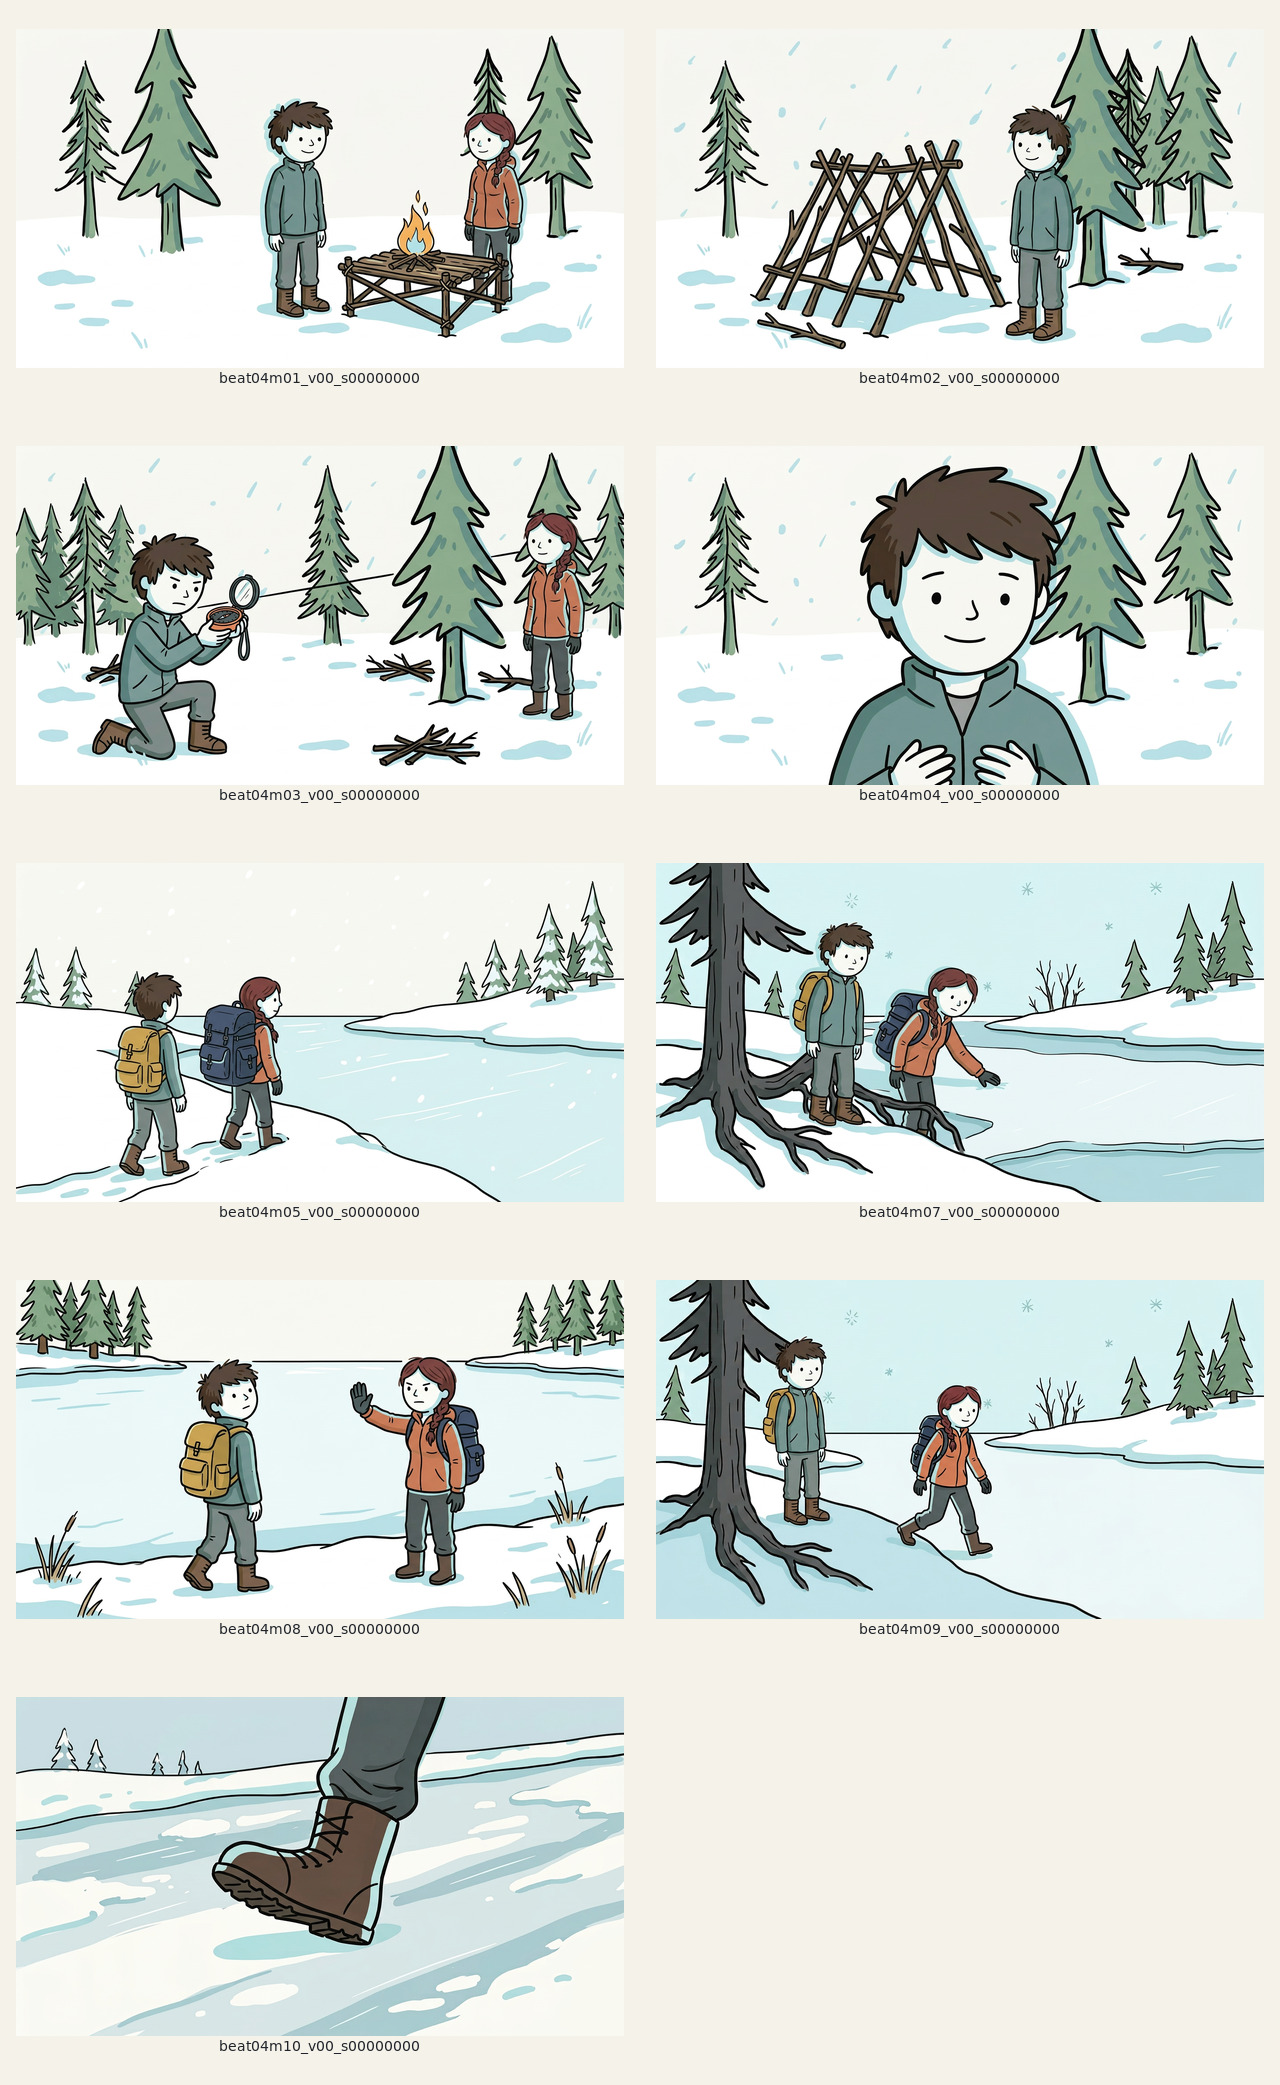
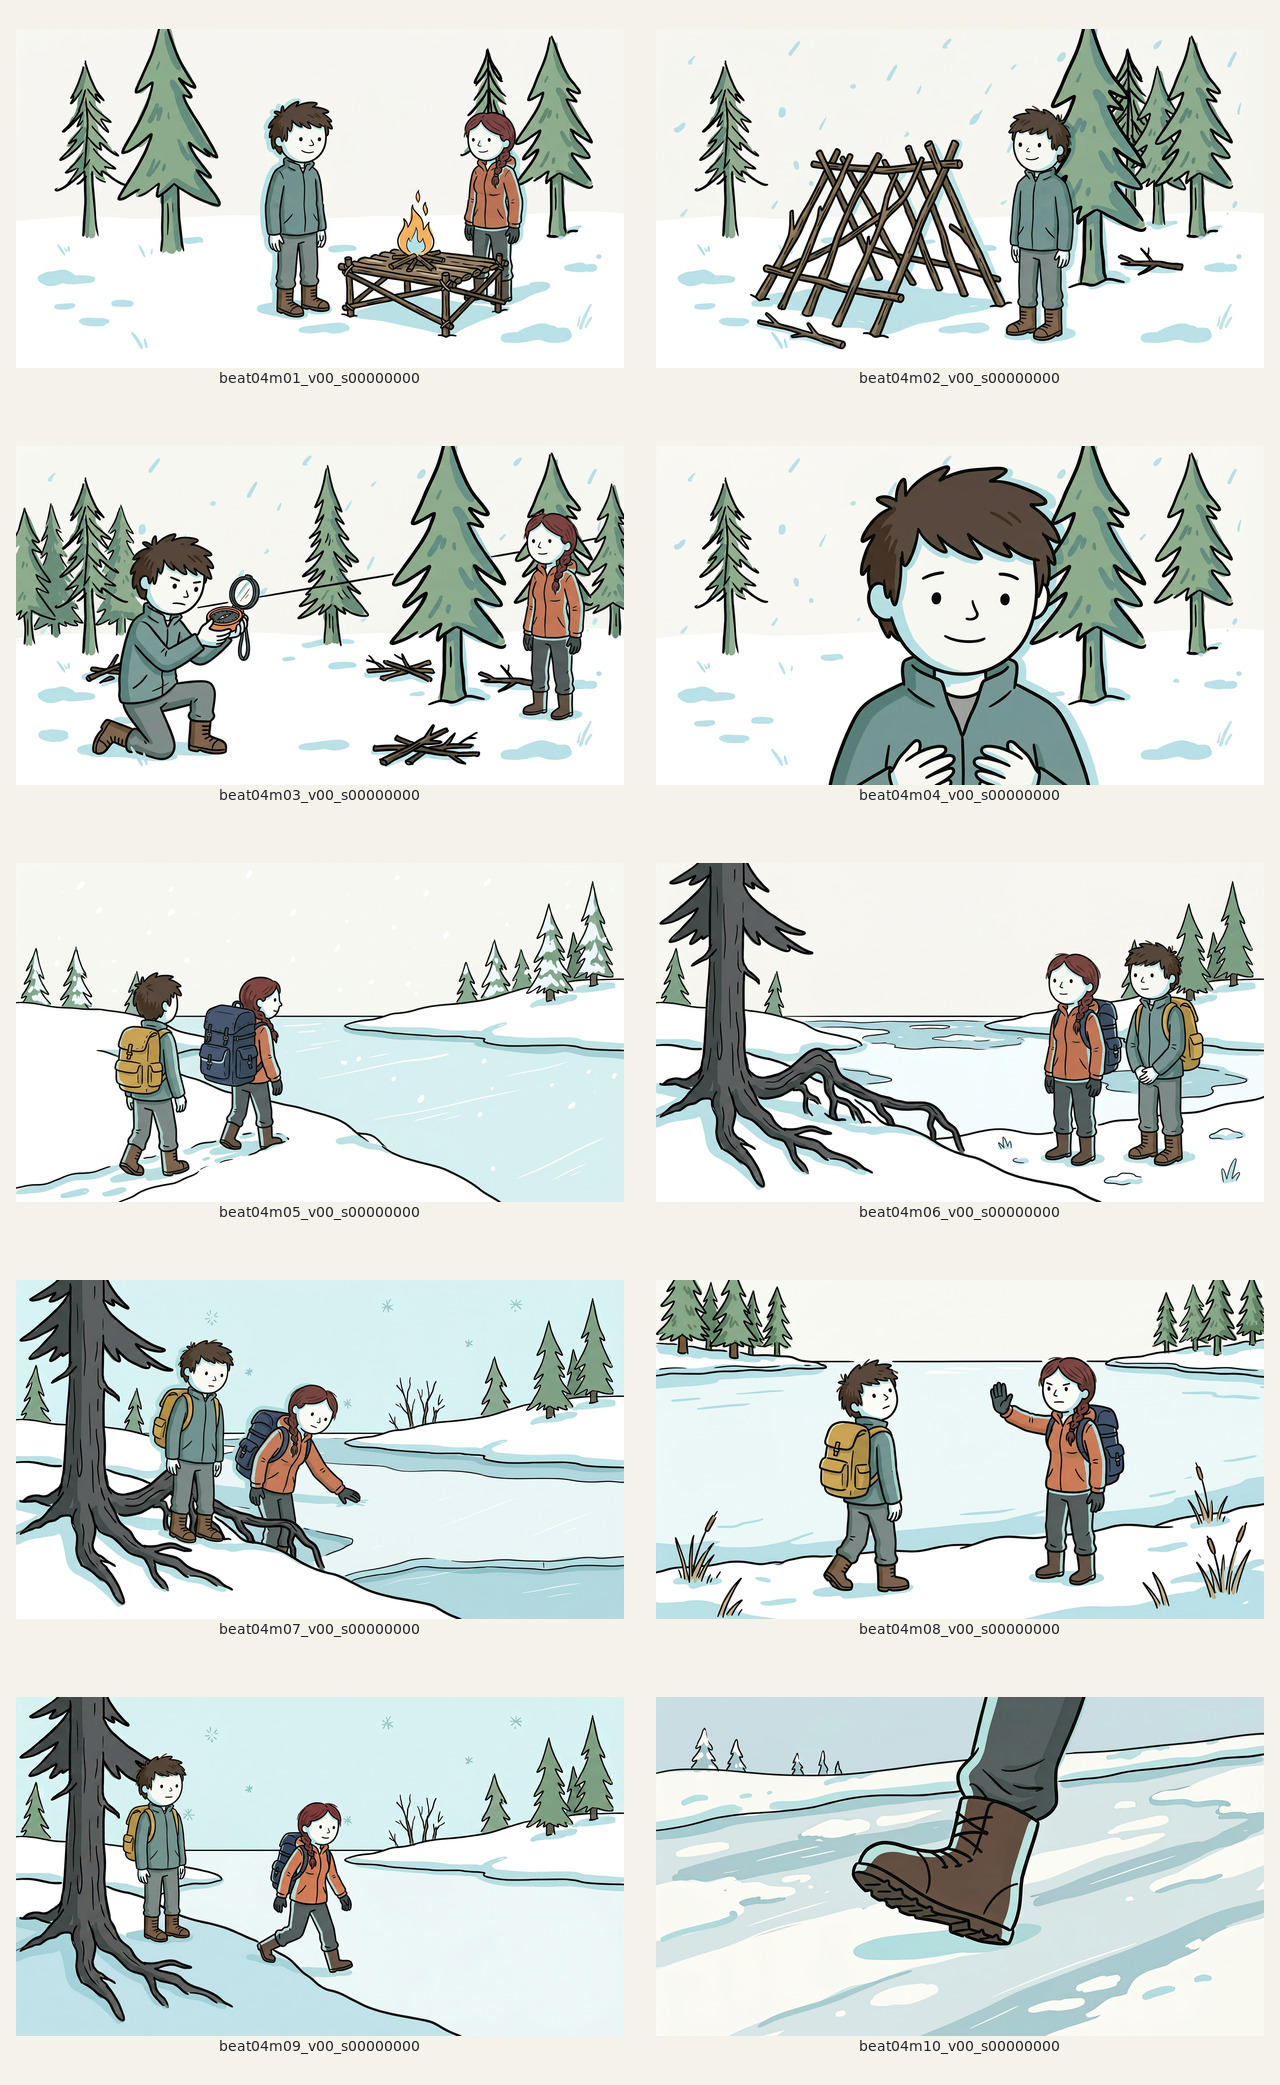
save the guide: complete initial crossing batch 4

Changed region(s): [[0.0, 0.4053, 1.0, 0.7794], [0.0, 0.8106, 1.0, 0.9976]]

diff --git a/examples/save_the_guide_part_01_video/FRAME_REVIEW.md b/examples/save_the_guide_part_01_video/FRAME_REVIEW.md
@@ -10,31 +10,29 @@ Frames are retained only after visual inspection. User section approval is expli
 
 **Total approved frames: 32/146.**
 
-## Batch 4 — progress and initial river crossing: FIRST PASS IN REVIEW
+## Batch 4 — progress and initial river crossing: COMPLETE, AWAITING USER APPROVAL
 
-Ten candidates were generated for `beat04m01`–`beat04m10`. Nine are retained for user review; one was rejected and removed.
+All ten Batch 4 frames, `beat04m01`–`beat04m10`, have been generated and retained after visual inspection. The complete review sheet is `review/part01_batch04_review.jpg`.
 
-### Retained: 9/10
+### Section content
 
-- `beat04m01` — Evan's small training fire succeeds on its raised platform.
-- `beat04m02` — Evan is proud of the crooked branch shelter.
-- `beat04m03` — Evan practices with the compass and sighting mirror.
-- `beat04m04` — Close view of Evan's growing pride.
-- `beat04m05` — Mara and Evan approach the intact river with the correct packs.
-- `beat04m07` — Mara tests the near-bank edge with a dark-gloved hand.
-- `beat04m08` — Mara instructs Evan to wait with a raised dark glove.
-- `beat04m09` — Mara steps onto the ice alone while Evan remains on the near bank.
-- `beat04m10` — Close view of Mara's boot on ordinary-looking intact ice near the far bank.
+- Evan's successful small training fire, crooked shelter, compass practice, and growing pride.
+- Mara and Evan arriving at the intact river with the correct navy and mustard packs.
+- Mara testing the near-bank edge and instructing Evan to wait.
+- Mara stepping onto the ice alone while Evan remains on the near bank.
+- Mara's boot reaching ordinary-looking snow-covered ice near the far bank, with no visible warning or opening.
 
-The nine-frame review sheet is `review/part01_batch04_review.jpg`.
+### Correction history
 
-### Rejected and removed
+- `beat04m06`: The first candidate showed Mara with bare hands. The final candidate restores dark gloves on both hands while preserving the intact river, correct packs, and near-bank positioning.
+- The other nine frames were retained from the first Batch 4 candidate set.
 
-- `beat04m06`: Mara's hands appeared bare in the two-person river-establishing shot. Her established dark gloves must remain on. Regenerate with both gloves visible, the packs intact, and no broken opening.
+## Production counter after Batch 4
 
-### Batch-completion round
-
-The single `beat04m06` correction will complete Batch 4. If retained, the overall count will be **42/146**, leaving **104 final frames**.
+- Approved frames: **32**
+- Batch 4 frames awaiting user approval: **10**
+- **Total retained: 42/146**
+- **Final frames remaining: 104**
 
 ## Standing continuity rules
 
@@ -49,6 +47,6 @@ The single `beat04m06` correction will complete Batch 4. If retained, the overal
 
 ## Next planned batch after Batch 4 approval
 
-**Batch 5**, `beat05m01`–`beat05m10`: concealed weak ice, Mara's right-leg breakthrough, full immersion, loss of the navy group pack, and Evan seeing her hands.
+**Batch 5**, `beat05m01`–`beat05m10`: concealed weak ice, Mara's right-leg breakthrough, full immersion, loss of the navy group pack, and Evan seeing her hands. If all ten pass, the overall retained count will be **52/146**, leaving **94**.
 
 No narration, timing file, or stitched video has been produced yet.

diff --git a/examples/save_the_guide_part_01_video/STATUS.md b/examples/save_the_guide_part_01_video/STATUS.md
@@ -2,7 +2,7 @@
 
 ## Current stage
 
-**Research, series planning, full Part 1 narration, and the complete reference pack are approved and locked. The full 146-moment visual plan is validated. Batches 1–3 are approved. Batch 4's first pass is complete: nine frames are retained, and one missing-glove error is queued for correction.**
+**Research, series planning, full Part 1 narration, and the complete reference pack are approved and locked. The full 146-moment visual plan is validated. Batches 1–3 are approved. Batch 4 is now complete: all ten progress and initial-crossing frames are retained and awaiting user review.**
 
 ## Production counter
 
@@ -13,10 +13,10 @@
 | Approved training | **11** |
 | Approved character/safety setup | **11** |
 | **Total approved** | **32** |
-| Batch 4 retained, awaiting user review | **9** |
-| **Total retained on disk** | **41** |
-| Rejected Batch 4 candidates pending correction | **1** |
-| **Final frames still needed** | **105** |
+| Complete Batch 4 awaiting user approval | **10** |
+| **Total retained on disk** | **42** |
+| Rejected candidates pending correction | **0** |
+| **Final frames remaining** | **104** |
 
 Batch numbering tracks planned production batches; correction and section-completion generations are additional rounds and do not increase the final 146-frame requirement.
 
@@ -30,6 +30,7 @@ Batch numbering tracks planned production batches; correction and section-comple
 - `beats.jsonl` — 14 narration beats converted from the validated visual plan.
 - `FRAME_REVIEW.md` — section approvals, batch-level visual QA, correction history, production counter, and standing continuity rules.
 - **Batches 1–3:** 32 frames approved.
+- **Batch 4:** 10/10 generated and retained for review.
 
 ## Runtime policy
 
@@ -37,10 +38,9 @@ There is **no fixed runtime cap**. Actual narration timing will determine the fi
 
 ## Next production steps
 
-1. Regenerate `beat04m06` with Mara's dark gloves intact to complete Batch 4.
-2. Review the completed batch at **42/146 retained**, leaving **104 final frames**.
-3. Generate **Batch 5**, the concealed weak ice, accident, and lost-pack sequence.
-4. Continue remaining frames in controlled batches of at most ten with visual inspection, user review, and checkpoint pushes.
-5. Produce one-take `en-US-AndrewNeural` narration at `-5%`, require complete WordBoundary moment locking, and stitch native-resolution frames with hard cuts only.
+1. Obtain user approval for the complete Batch 4 section.
+2. Generate **Batch 5**, `beat05m01`–`beat05m10`: concealed weak ice, right-leg breakthrough, immersion, lost navy pack, and Mara's hands.
+3. Continue remaining frames in controlled batches of at most ten with visual inspection, user review, and checkpoint pushes.
+4. Produce one-take `en-US-AndrewNeural` narration at `-5%`, require complete WordBoundary moment locking, and stitch native-resolution frames with hard cuts only.
 
 No narration or stitched video has been produced yet.
